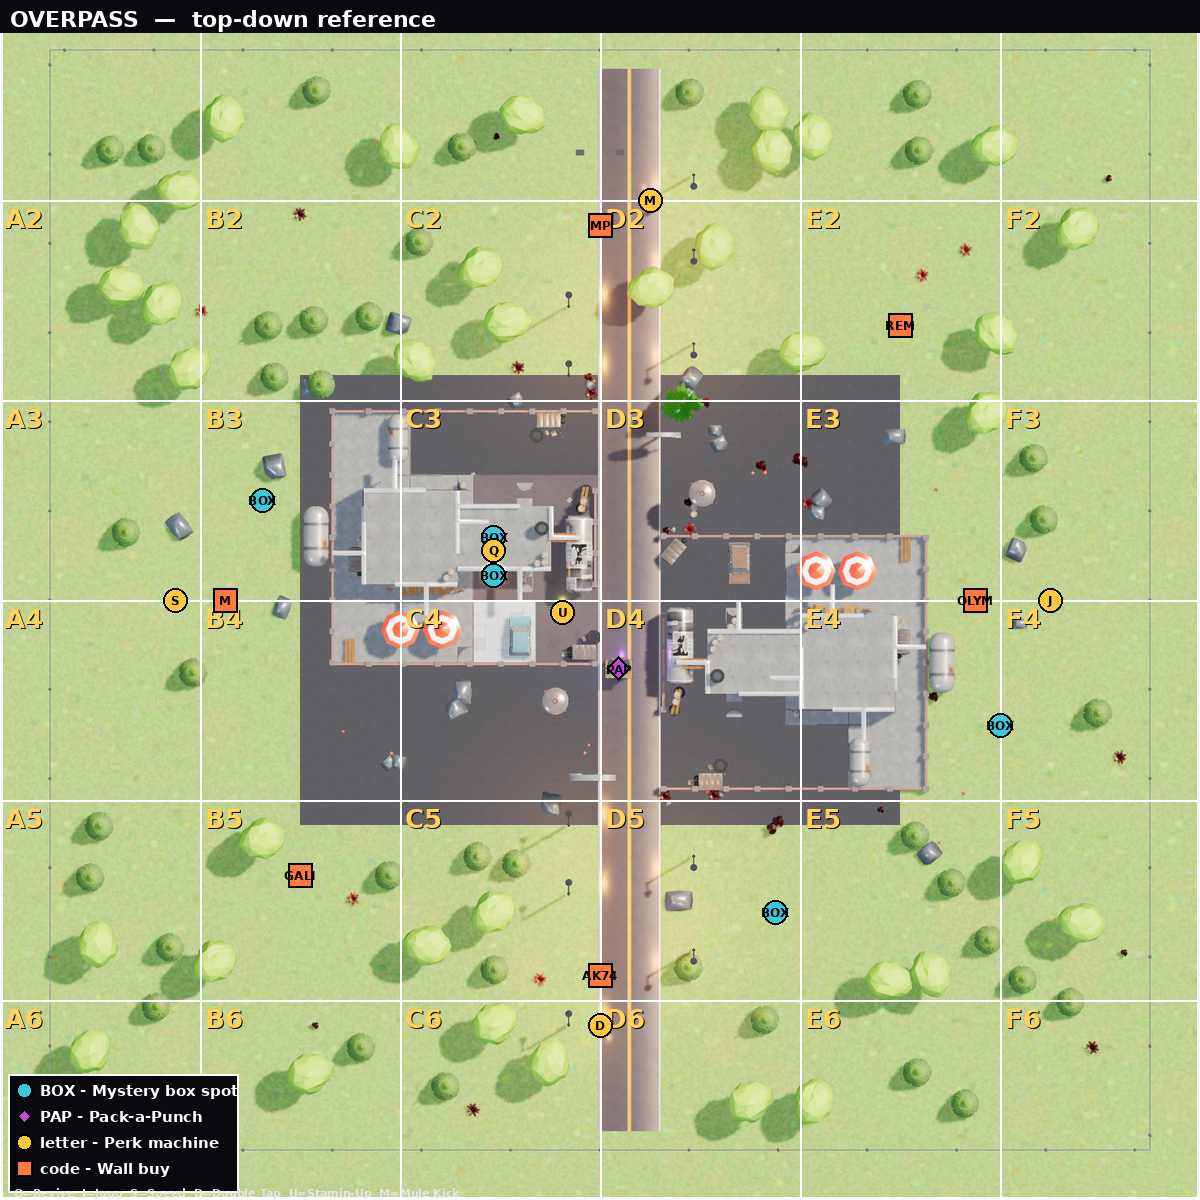
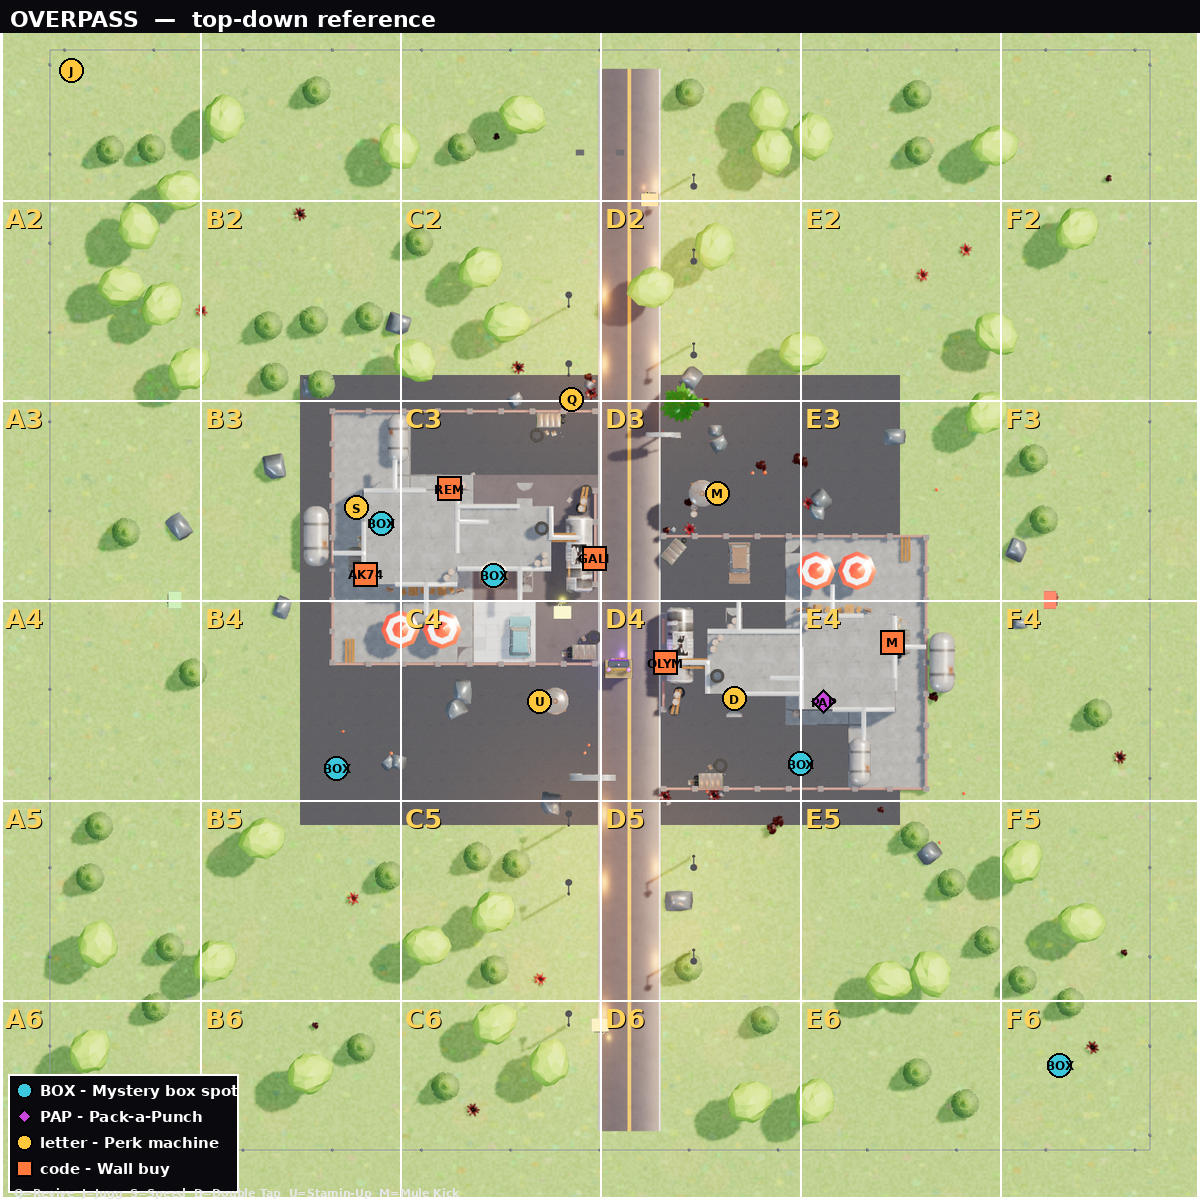
Move the Map Editor placements from Crossroads to Overpass (wrong map)
The last two commits applied a Map Editor export to Crossroads, but it
was actually authored against Overpass - reverted Crossroads back to
its original BOX_SPOTS/equip buys/wall buys/perks/PAP (including mp5,
which was never meant to be removed there) and applied the same export
to buildOverpass() instead, again dropping the out-of-bounds mp5 wall
buy per request (Overpass goes from 6 wall buys to 5; Crossroads is
back to 6).

Both Overpass variants (Day/Night) share buildOverpass() for all of
this, same as Crossroads' Day/Night sharing. Regenerated the annotated
pin overlays for all four affected map entries.

diff --git a/public/index.html b/public/index.html
@@ -2673,11 +2673,11 @@ function buildCrossroads(night){
     torch.intensity=0.16;
   }
   SPAWN_AT.set(-38,0,-10); SPAWN_YAW=-Math.PI/2;
-  addEquipBuy('grenade',0.61,0,-42.06,6.28);
-  addEquipBuy('claymore',4.23,0,-42.24,6.28);
+  addEquipBuy('grenade',SPAWN_AT.x-1.8,0,SPAWN_AT.z-1.6,SPAWN_YAW+Math.PI);
+  addEquipBuy('claymore',SPAWN_AT.x-1.8,0,SPAWN_AT.z+1.6,SPAWN_YAW+Math.PI);
   SPAWNS=[[-13.6,-37.9],[14,-40],[-21,-37.7],[20,-36],[-36,-20],[38,-20],
     [-36,0],[36,0],[-37.9,20.7],[40,20],[-20,36],[20,36]];
-  BOX_SPOTS=[[-8.5,-2],[16.05,13.12],[-21.05,13.46],[36.79,37.2],[-17.5,-6.13]];
+  BOX_SPOTS=[[6,0],[-6,10],[-19,-6.3],[-6,26],[16,-14]];
 
   if(night){
     worldRoot.add(new THREE.HemisphereLight(0x2a3a5c,0x141018,0.5));
@@ -3102,21 +3102,22 @@ function buildCrossroads(night){
   chain(-BND,-BND,BND,-BND); chain(-BND,BND,BND,BND);
 
   /* ---- buys ---- */
-  addWallBuy('m14',23.39,2,3.36,-1.61);
-  addWallBuy('ak74u',-18.78,2,-2.08,1.6);
-  addWallBuy('galil',-0.48,2,-3.34,1.47);
-  addWallBuy('olympia',5.21,2,5.03,-1.57);
-  addWallBuy('rem870',-12.08,2,-8.88,3.11);
+  addWallBuy('m14',8.0,2.0,6.5,Math.PI/2);
+  addWallBuy('ak74u',-22,2.0,10,-Math.PI/2);
+  addWallBuy('mp5',4,2.0,-28.72,0);
+  addWallBuy('galil',-4,2.0,-28.72,Math.PI);
+  addWallBuy('olympia',15,2.0,2,Math.PI/2);
+  addWallBuy('rem870',-30,2.0,-9,Math.PI/2);
   addAmmoBuy('m1911',3,2.0,-3,0,250);
   addAmmoBuy('m4a1',-3,2.0,4,Math.PI,400);
 
-  addPerkMachine('revive',-2.26,-16.06,0,0);
-  addPerkMachine('jugg',-42.29,-42.34,0,-2.43);
-  addPerkMachine('speed',-19.48,-7.38,0,1.57);
-  addPerkMachine('dtap',10.72,7.91,0,3.14);
-  addPerkMachine('stamin',-4.83,8.12,0,1.6);
-  addPerkMachine('mule',9.36,-8.54,0,-1.6);
-  addPackAPunch(17.88,8.15,0);
+  addPerkMachine('revive',-38,-4,0,-Math.PI/2);
+  addPerkMachine('jugg',38,0,0,-Math.PI/2);
+  addPerkMachine('speed',-38,0,0,Math.PI/2);
+  addPerkMachine('dtap',0,38,0,Math.PI);
+  addPerkMachine('stamin',20,-15,0,0);
+  addPerkMachine('mule',-20,20,0,Math.PI);
+  addPackAPunch(-12,1.5,0);
 
   if(night){
     /* ---- ash in the air, same drifting-particle setup as Town's night sky ---- */
@@ -3154,11 +3155,11 @@ function buildOverpass(night){
     torch.intensity=0.14;
   }
   SPAWN_AT.set(0,0,-34); SPAWN_YAW=Math.PI;
-  addEquipBuy('grenade',SPAWN_AT.x-1.6,0,SPAWN_AT.z-1.8,SPAWN_YAW+Math.PI);
-  addEquipBuy('claymore',SPAWN_AT.x+1.6,0,SPAWN_AT.z-1.8,SPAWN_YAW+Math.PI);
+  addEquipBuy('grenade',0.61,0,-42.06,6.28);
+  addEquipBuy('claymore',4.23,0,-42.24,6.28);
   SPAWNS=[[38,0],[35.1,14.5],[26.9,26.9],[14.5,35.1],[0,38],[-14.5,35.1],[-26.9,26.9],[-35.1,14.5],
     [-38,0],[-35.1,-14.5],[-26.9,-26.9],[-14.5,-35.1],[0,-38],[14.5,-35.1],[26.9,-26.9],[35.1,-14.5]];
-  BOX_SPOTS=[[-8.5,-2],[14,25],[-27,-8],[32,10],[-8.5,-5]];
+  BOX_SPOTS=[[-8.5,-2],[16.05,13.12],[-21.05,13.46],[36.79,37.2],[-17.5,-6.13]];
 
   if(night){
     worldRoot.add(new THREE.HemisphereLight(0x2a3a5c,0x141018,0.5));
@@ -4267,20 +4268,19 @@ function buildOverpass(night){
   fenceRun(-BND,-BND,BND,-BND);
 
   /* ---- buys ---- */
-  addWallBuy('m14',-30,2.0,0,Math.PI/2);
-  addWallBuy('olympia',30,2.0,0,-Math.PI/2);
-  addWallBuy('mp5',0,2.0,-30,0);
-  addWallBuy('ak74u',0,2.0,30,Math.PI);
-  addWallBuy('galil',-24,2.0,22,Math.PI/4);
-  addWallBuy('rem870',24,2.0,-22,-Math.PI*0.75);
+  addWallBuy('m14',23.39,2,3.36,-1.61);
+  addWallBuy('olympia',5.21,2,5.03,-1.57);
+  addWallBuy('ak74u',-18.78,2,-2.08,1.6);
+  addWallBuy('galil',-0.48,2,-3.34,1.47);
+  addWallBuy('rem870',-12.08,2,-8.88,3.11);
 
-  addPerkMachine('revive',-8.5,-4,0,0);
-  addPerkMachine('jugg',36,0,0,-Math.PI/2);
-  addPerkMachine('speed',-34,0,0,Math.PI/2);
-  addPerkMachine('dtap',0,34,0,Math.PI);
-  addPerkMachine('stamin',-3,1,0,0);
-  addPerkMachine('mule',4,-32,0,0);
-  addPackAPunch(1.5,5.5,0);
+  addPerkMachine('revive',-2.26,-16.06,0,0);
+  addPerkMachine('jugg',-42.29,-42.34,0,-2.43);
+  addPerkMachine('speed',-19.48,-7.38,0,1.57);
+  addPerkMachine('dtap',10.72,7.91,0,3.14);
+  addPerkMachine('stamin',-4.83,8.12,0,1.6);
+  addPerkMachine('mule',9.36,-8.54,0,-1.6);
+  addPackAPunch(17.88,8.15,0);
 
   if(night){
     /* ---- ash in the air, same drifting-particle setup as Town's night sky ---- */
